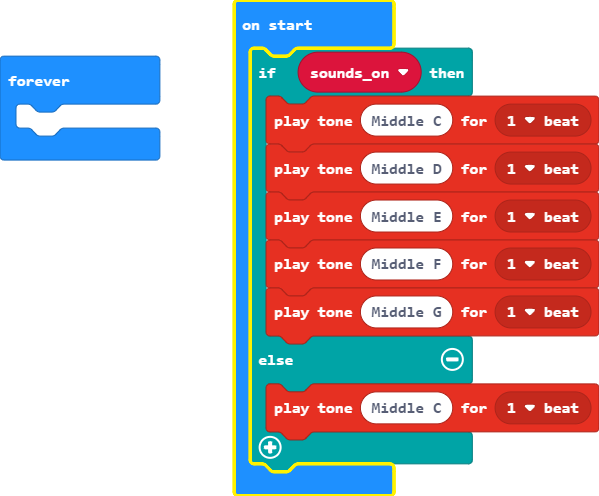
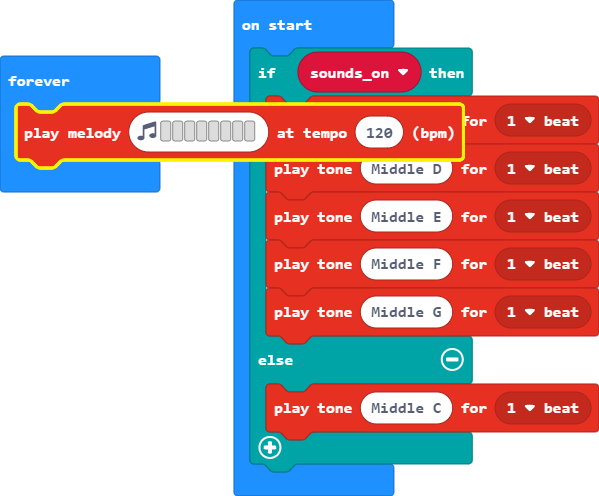
Update main.blocks, main.ts

diff --git a/main.ts b/main.ts
@@ -9,5 +9,5 @@ if (sounds_on) {
     music.playTone(262, music.beat(BeatFraction.Whole))
 }
 basic.forever(function () {
-	
+    music.playMelody("- - - - - - - - ", 120)
 })
